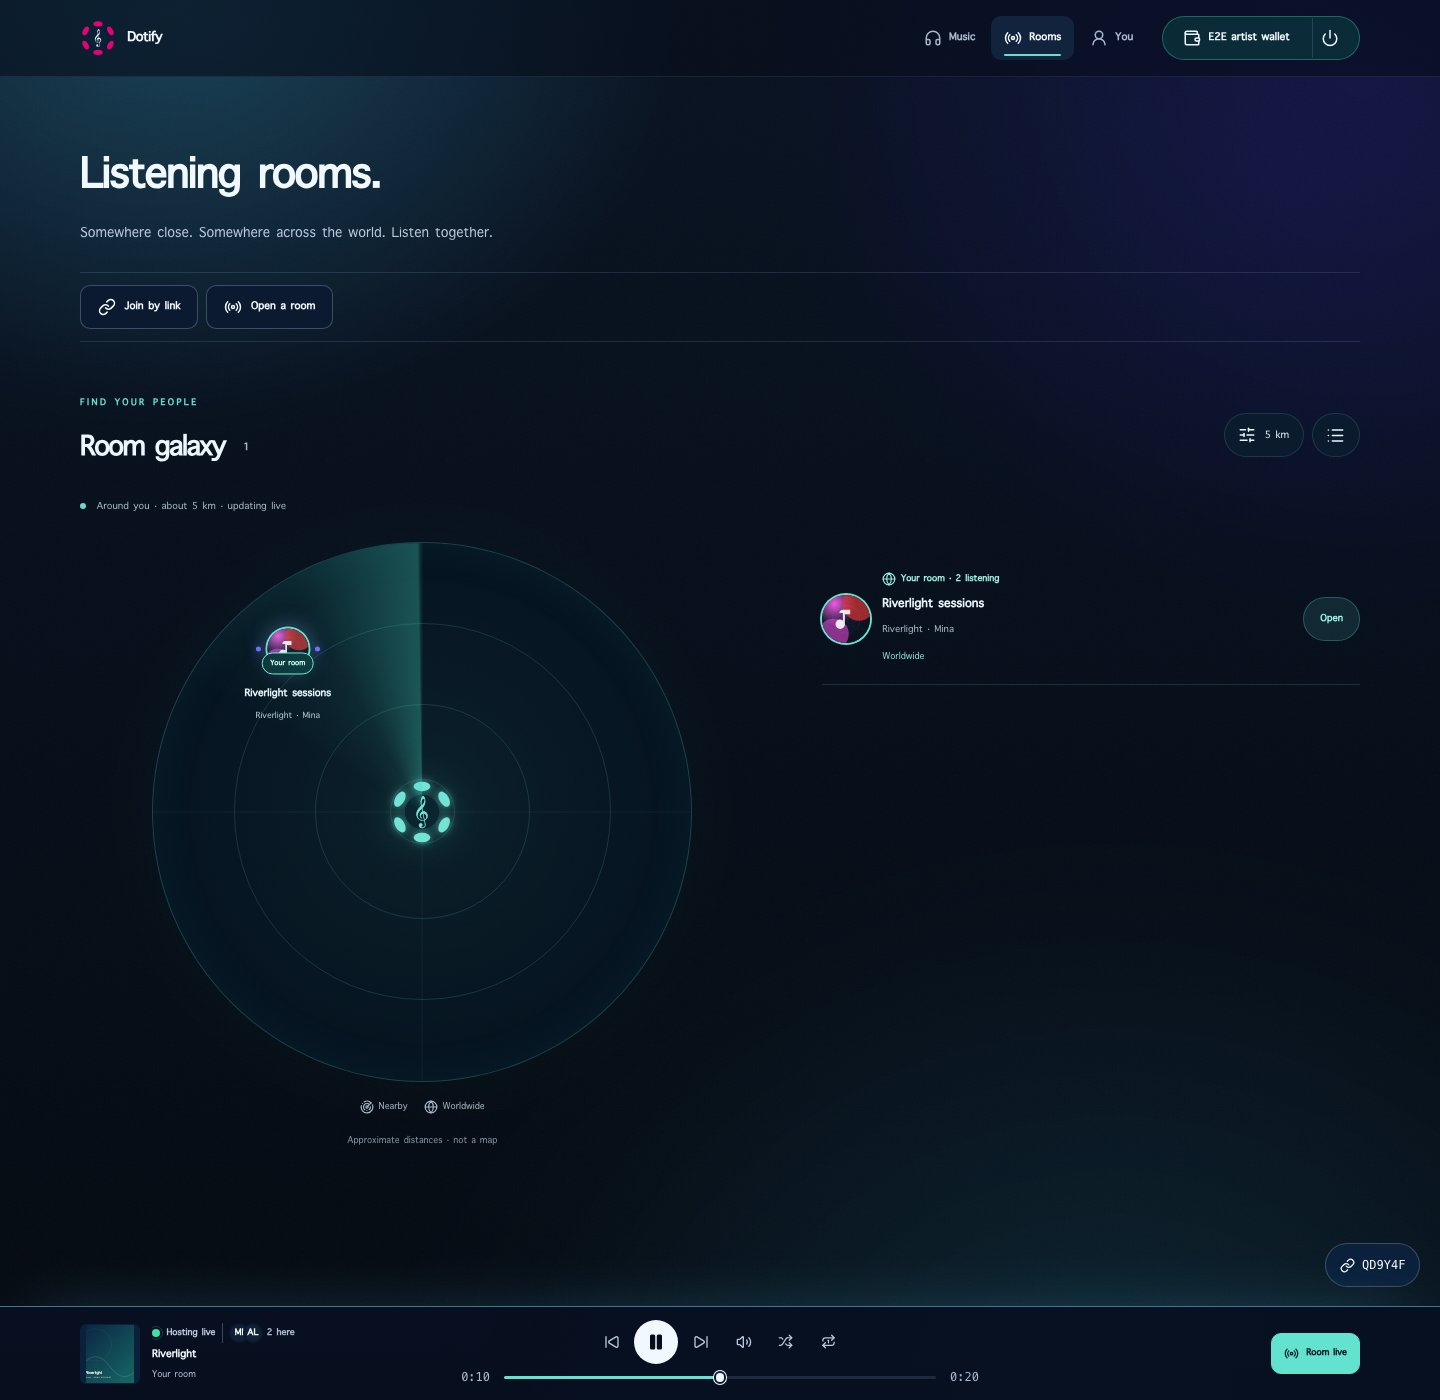
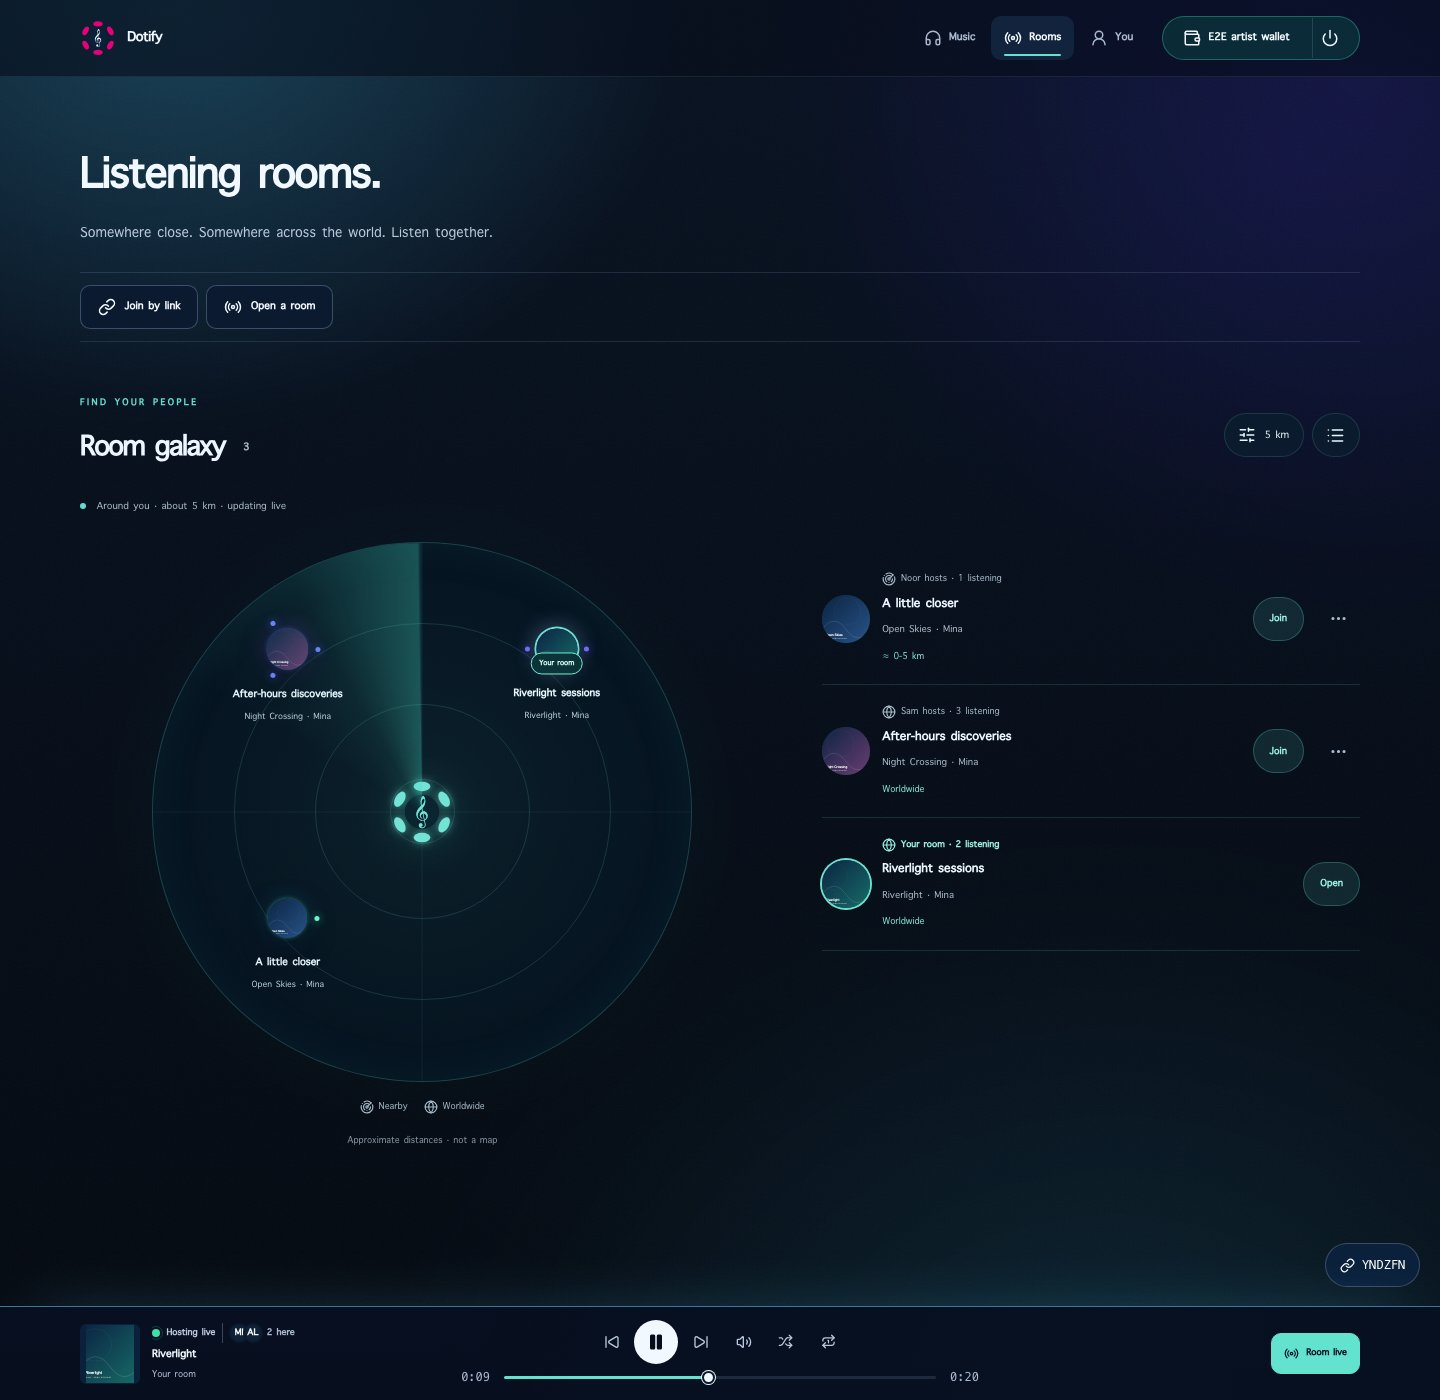
docs: show concurrent rooms and live presence in the galaxy capture

diff --git a/web/e2e/documentation-capture.spec.ts b/web/e2e/documentation-capture.spec.ts
@@ -2,49 +2,9 @@ import { expect, test, type Page, type BrowserContext } from '@playwright/test';
 import { mkdir, writeFile } from 'node:fs/promises';
 import { execFileSync } from 'node:child_process';
 import path from 'node:path';
-import { createHash } from 'node:crypto';
-import { CID } from 'multiformats/cid';
-import { create as digest } from 'multiformats/hashes/digest';
+import { artist, covers, tracks } from './fixtures/documentation-releases.mjs';
 
 const output = path.resolve('..', 'docs/images/release-preview');
-const artist = '0x000000000000000000000000000000000000a711';
-const runtime = '0x000000000000000000000000000000000000a712';
-const titles = ['Riverlight', 'Night Crossing', 'Open Skies'];
-
-function artwork(title: string, color: string, index: number) {
-  const svg = `<svg xmlns="http://www.w3.org/2000/svg" viewBox="0 0 640 640"><defs><linearGradient id="a" x2="1" y2="1"><stop stop-color="#0b2341"/><stop offset="1" stop-color="${color}"/></linearGradient></defs><rect width="640" height="640" fill="url(#a)"/><circle cx="${160 + index * 90}" cy="220" r="180" fill="none" stroke="#fff" stroke-opacity=".22" stroke-width="2"/><circle cx="390" cy="390" r="220" fill="none" stroke="#fff" stroke-opacity=".12" stroke-width="2"/><path d="M0 460 Q160 240 320 460 T640 460" stroke="#fff" stroke-opacity=".5" stroke-width="3" fill="none"/><text x="48" y="540" fill="#fff" font-family="sans-serif" font-size="44">${title}</text><text x="50" y="580" fill="#fff" fill-opacity=".7" font-family="sans-serif" font-size="17" letter-spacing="5">MINA · DEMO RELEASE</text></svg>`;
-  return svg;
-}
-
-const covers = titles.map((title, index) => {
-  const body = artwork(title, ['#176b67', '#693d70', '#285387'][index], index);
-  const cid = CID.createV1(0x55, digest(0x12, createHash('sha256').update(body).digest())).toString();
-  return { body, cid };
-});
-
-const tracks = titles.map((title, index) => ({
-  id: `${runtime}:0x${String(index + 1).padStart(64, '0')}`,
-  hash: `0x${String(index + 1).padStart(64, '0')}`,
-  artistAddress: artist,
-  title,
-  artist: 'Mina',
-  active: true,
-  source: 'artist',
-  zone: 'Demo',
-  audioRef: '/e2e/fixtures/continuity-tone.mp3',
-  localUrl: '/e2e/fixtures/continuity-tone.mp3',
-  imageRef: `ipfs://${covers[index].cid}`,
-  priceDot: '0',
-  description: 'A local demonstration release for the Dotify documentation.',
-  bulletinRef: '',
-  metadataRef: 'e2e:documentation',
-  royaltyBps: 10000,
-  durationLabel: 'Demo',
-  accessMode: 'free',
-  royaltySplits: [],
-  personhoodLevel: 'DIM1',
-  encrypted: false
-}));
 
 async function capture(page: Page, name: string) {
   await page.evaluate(async () => {
@@ -53,6 +13,16 @@ async function capture(page: Page, name: string) {
     window.scrollTo({ top: 0, behavior: 'instant' });
     await Promise.all(Array.from(document.images).map(image => image.decode().catch(() => {})));
   });
+  // Room geometry follows the visual viewport on the next animation frame.
+  // Wait for that layout after resizing instead of photographing a stale width.
+  await expect
+    .poll(() =>
+      page.evaluate(() => {
+        const shell = document.querySelector<HTMLElement>('[style*="--room-viewport-width"]');
+        return !shell || Number.parseFloat(shell.style.getPropertyValue('--room-viewport-width')) === innerWidth;
+      })
+    )
+    .toBe(true);
   expect(await page.evaluate(() => document.documentElement.scrollWidth <= innerWidth)).toBe(true);
   await page.screenshot({ path: path.join(output, `${name}.jpg`), type: 'jpeg', quality: 85, animations: 'disabled' });
 }
@@ -74,6 +44,26 @@ async function seed(context: BrowserContext) {
   );
 }
 
+async function openRoom(page: Page, title: string, nickname: string, name: string, visibility: 'Everyone' | 'Nearby') {
+  await page.getByRole('button', { name: 'Open a room', exact: true }).click();
+  await page.getByRole('button', { name: `Select ${title}`, exact: true }).click();
+  await page.getByLabel('Your name or nickname', { exact: true }).fill(nickname);
+  await page.locator('summary').filter({ hasText: 'Name your room' }).click();
+  await page.getByLabel('Room name', { exact: false }).fill(name);
+  await page.getByLabel('A short invitation', { exact: false }).fill('Come share a discovery. Stay for the conversation.');
+  await page.getByRole('radio', { name: visibility, exact: true }).check();
+  await page.getByRole('button', { name: 'Open the room', exact: true }).click();
+  await expect(page.getByTestId('room-code')).toHaveText(/[A-Z2-9]{6}/);
+  return (await page.getByTestId('room-code').innerText()).trim();
+}
+
+async function joinRoom(page: Page, code: string, nickname: string) {
+  await page.goto(`/?e2eRoom=listener#/rooms/${code}`);
+  await page.getByLabel('Your name or nickname').fill(nickname);
+  await page.getByRole('button', { name: 'Join and listen' }).click();
+  await expect(page.getByTestId('room-code')).toHaveText(code);
+}
+
 test('capture current documentation surfaces with disclosed local demo data', async ({ browser }) => {
   await mkdir(output, { recursive: true });
   const context = await browser.newContext({
@@ -86,26 +76,15 @@ test('capture current documentation surfaces with disclosed local demo data', as
   await seed(context);
   const host = await context.newPage();
   const guestContext = await browser.newContext({ viewport: { width: 1440, height: 1000 }, reducedMotion: 'reduce' });
+  const contexts = [context, guestContext];
   await seed(guestContext);
   try {
     await host.goto('/?e2eArtist=happy');
     await expect(host.getByTestId('track-card')).toHaveCount(3);
     await capture(host, 'music-desktop');
-    await host.getByRole('button', { name: 'Open a room', exact: true }).click();
-    await host.getByRole('button', { name: 'Select Riverlight', exact: true }).click();
-    await host.getByLabel('Your name or nickname', { exact: true }).fill('Mina');
-    await host.locator('summary').filter({ hasText: 'Name your room' }).click();
-    await host.getByLabel('Room name', { exact: false }).fill('Riverlight sessions');
-    await host.getByLabel('A short invitation', { exact: false }).fill('Come share a discovery. Stay for the conversation.');
-    await host.getByRole('radio', { name: 'Everyone', exact: true }).check();
-    await host.getByRole('button', { name: 'Open the room', exact: true }).click();
-    await expect(host.getByTestId('room-code')).toHaveText(/[A-Z2-9]{6}/);
-    const code = (await host.getByTestId('room-code').innerText()).trim();
+    const code = await openRoom(host, 'Riverlight', 'Mina', 'Riverlight sessions', 'Everyone');
     const guest = await guestContext.newPage();
-    await guest.goto(`/?e2eRoom=listener#/rooms/${code}`);
-    await guest.getByLabel('Your name or nickname').fill('Alex');
-    await guest.getByRole('button', { name: 'Join and listen' }).click();
-    await expect(guest.getByTestId('room-code')).toHaveText(code);
+    await joinRoom(guest, code, 'Alex');
     await guest.getByLabel('Message the room').fill('This feels like a good place to start.');
     await guest.getByRole('button', { name: 'Send message' }).click();
     await expect(host.getByRole('log')).toContainText('This feels like a good place to start.');
@@ -119,10 +98,37 @@ test('capture current documentation surfaces with disclosed local demo data', as
     await capture(guest, 'room-desktop');
     await guest.setViewportSize({ width: 390, height: 844 });
     await capture(guest, 'room-mobile');
+    await expect(guest.getByLabel('Message the room')).toBeInViewport();
+    // Open additional actual rooms before the galaxy capture, rather than
+    // painting planets or injecting discovery counts into the interface.
+    for (const room of [
+      { title: 'Night Crossing', nickname: 'Sam', name: 'After-hours discoveries', visibility: 'Everyone' as const, guests: ['Jamie', 'Lea'] },
+      { title: 'Open Skies', nickname: 'Noor', name: 'A little closer', visibility: 'Nearby' as const, guests: [] }
+    ]) {
+      const roomContext = await browser.newContext({
+        viewport: { width: 1440, height: 1000 },
+        permissions: ['geolocation'],
+        geolocation: { latitude: 0.395, longitude: 9.454, accuracy: 100 },
+        reducedMotion: 'reduce'
+      });
+      contexts.push(roomContext);
+      await seed(roomContext);
+      const roomHost = await roomContext.newPage();
+      await roomHost.goto('/?e2eArtist=happy');
+      const roomCode = await openRoom(roomHost, room.title, room.nickname, room.name, room.visibility);
+      for (const nickname of room.guests) {
+        const listenerContext = await browser.newContext({ reducedMotion: 'reduce' });
+        contexts.push(listenerContext);
+        await seed(listenerContext);
+        await joinRoom(await listenerContext.newPage(), roomCode, nickname);
+      }
+    }
     await host.bringToFront();
     await host.getByRole('button', { name: 'Rooms', exact: true }).click();
     const radar = host.getByRole('region', { name: 'Room galaxy', exact: true });
-    await expect(radar.getByRole('button', { name: /^Inspect / }), await radar.innerText()).toHaveCount(1, { timeout: 20_000 });
+    await expect(radar.getByRole('button', { name: /^Inspect / }), await radar.innerText()).toHaveCount(3, { timeout: 20_000 });
+    await expect(radar.locator('.radar-invitations').getByText(/3 listening/)).toBeVisible();
+    await expect(radar.locator('.radar-room-sphere img')).toHaveCount(3);
     await capture(host, 'rooms-desktop');
     await host.setViewportSize({ width: 1440, height: 1000 });
     await host.goto('/artists?e2eArtist=happy');
@@ -139,6 +145,7 @@ test('capture current documentation surfaces with disclosed local demo data', as
           capturedAt: new Date().toISOString(),
           browser: browser.version(),
           surfaces: ['music-desktop', 'rooms-desktop', 'room-desktop', 'room-mobile', 'artist-desktop'],
+          galaxy: { rooms: 3, connectedSessions: [2, 3, 1], visibility: ['Worldwide', 'Worldwide', 'Nearby'] },
           data: 'Local synthetic releases, artwork, accounts and participants; not live activity.',
           validation: 'Visual documentation only, not native Product or pilot acceptance.'
         },
@@ -147,6 +154,6 @@ test('capture current documentation surfaces with disclosed local demo data', as
       ) + '\n'
     );
   } finally {
-    await Promise.allSettled([guestContext.close(), context.close()]);
+    await Promise.allSettled(contexts.map(context => context.close()));
   }
 });

diff --git a/docs/index.html b/docs/index.html
@@ -1400,7 +1400,7 @@
                 decoding="async"
               />
             </a>
-            <figcaption><strong>Find your people.</strong> Nearby and Worldwide discovery respect the host's visibility choice.</figcaption>
+            <figcaption><strong>Find your people.</strong> Three parallel rooms, distinct covers and orbiting presence, with Nearby and Worldwide visibility.</figcaption>
           </figure>
         </div>
         <details class="product-gallery-more">

diff --git a/web/playwright.docs.config.ts b/web/playwright.docs.config.ts
@@ -10,7 +10,7 @@ export default defineConfig({
   timeout: 90_000,
   webServer: [
     {
-      command: 'node e2e/fixtures/signaling-server.mjs',
+      command: 'node e2e/fixtures/documentation-server.mjs',
       url: 'http://127.0.0.1:8796/health',
       reuseExistingServer: false,
       env: { SIGNAL_HOST: '127.0.0.1', SIGNAL_PORT: '8796', SIGNAL_ORIGINS: 'http://127.0.0.1:5340' }

diff --git a/docs/images/release-preview/README.md b/docs/images/release-preview/README.md
@@ -7,23 +7,26 @@ documents are retained at their original paths.
 ## What these images show
 
 These are browser captures of the application UI, not painted mockups. They use
-local, synthetic releases by **Mina**, generated cover artwork and two local
-browser participants. The real local signaling server carries the room/chat
+local, synthetic releases by **Mina**, generated cover artwork and six local
+browser sessions across three concurrently open rooms. Two rooms opt into
+Worldwide discovery; one opts into Nearby. Their connected counts are 2, 3 and 1,
+including hosts. The real local signaling server carries room/chat and presence
 flow. The gallery is a visual introduction, not evidence of live attendance,
 payments, physical audibility or native Product support.
 
 No real wallet, participant, source key, external catalog, location service or
 upload is used. The displayed location is a browser-emulated test fix. The
-discovery artwork may use the app's normal fallback because no canonical live
-catalog is supplied. No verified artist-presence badge is fabricated.
+documentation server supplies synthetic registry reads for those three releases
+so discovery uses their covers through the normal metadata path. It rejects
+unknown reads and has no signer. No verified artist-presence badge is fabricated.
 
-| File                 | Surface                                                                   |
-| -------------------- | ------------------------------------------------------------------------- |
-| `music-desktop.jpg`  | Catalog with three local demonstration releases.                          |
-| `rooms-desktop.jpg`  | Room galaxy with an opted-in Worldwide room and real local session count. |
-| `room-desktop.jpg`   | Guest's shared player and conversation.                                   |
-| `room-mobile.jpg`    | The same guest room at a 390 × 844 browser viewport.                      |
-| `artist-desktop.jpg` | Artist studio's Releases view.                                            |
+| File                 | Surface                                                                                                      |
+| -------------------- | ------------------------------------------------------------------------------------------------------------ |
+| `music-desktop.jpg`  | Catalog with three local demonstration releases.                                                             |
+| `rooms-desktop.jpg`  | Three parallel Nearby/Worldwide rooms with covers, orbiting presence and distinct real local session counts. |
+| `room-desktop.jpg`   | Guest's shared player and conversation.                                                                      |
+| `room-mobile.jpg`    | The same guest room at a 390 × 844 browser viewport.                                                         |
+| `artist-desktop.jpg` | Artist studio's Releases view.                                                                               |
 
 `capture.json` records the application source/tree, capture profile, time and browser.
 Artworks are served locally at their synthetic content-addressed paths; nothing
@@ -43,8 +46,8 @@ npx playwright test --config playwright.docs.config.ts
 ```
 
 The dedicated configuration starts local Vite/signaling at ports 5340/8796 and
-uses only existing test adapters. External HTTP requests are blocked by the
-capture contexts. The recipe is excluded from the ordinary browser suite and
+uses existing browser adapters plus a documentation-only registry fixture.
+External HTTP requests are blocked by the capture contexts. The recipe is excluded from the ordinary browser suite and
 does not introduce a production feature flag or change application code.
 Do not use `VITE_E2E_*` settings in a published build.
 

diff --git a/docs/backlog/implementation/evidence/documentation-refresh-2026-10-20.md b/docs/backlog/implementation/evidence/documentation-refresh-2026-10-20.md
@@ -29,12 +29,13 @@ mobile, and the artist Releases view. Their combined size is approximately
 300 KiB. The [gallery record](../../../images/release-preview/README.md) explains
 synthetic releases, participants, artwork and browser-emulated location.
 
-The opt-in Playwright recipe uses existing test adapters and real local room
-signaling. It blocks external HTTP delivery, provides local synthetic artwork,
+The opt-in Playwright recipe uses existing browser adapters, synthetic registry
+reads and real local room signaling. Three rooms run concurrently: two Worldwide
+and one Nearby, with 2, 3 and 1 connected sessions. It blocks external HTTP delivery, provides local synthetic artwork,
 and records source/tree, browser and time in `capture.json`. It is excluded from
 the default browser suite. No real participant, production key, wallet signature,
-upload or payment is involved. The normal discovery artwork fallback is retained
-when a canonical server catalog is unavailable.
+upload or payment is involved. A documentation-only server uses the normal
+registry metadata path with synthetic reads, without a signer or live chain.
 
 ## Verification
 

diff --git a/README.md b/README.md
@@ -46,7 +46,7 @@ of native Product support. [Capture source and reproduction](docs/images/release
 
 **Find a listening room**
 
-![Room galaxy with album covers and Nearby and Worldwide discovery](docs/images/release-preview/rooms-desktop.jpg)
+![Three parallel rooms with different covers, orbiting listeners and Nearby and Worldwide discovery](docs/images/release-preview/rooms-desktop.jpg)
 
 **Share the moment**
 
